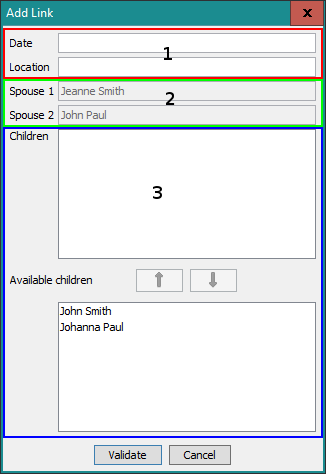
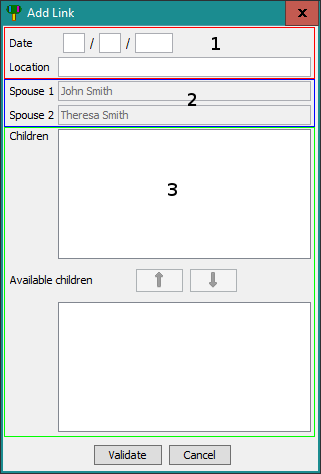
doc: updated

diff --git a/Genealogy/help-doc/en_US/getting_started.links.add.html b/Genealogy/help-doc/en_US/getting_started.links.add.html
@@ -13,7 +13,7 @@
     Now, select the first card (if it is not already) you want to connect, then click the second one.
     You should now be seeing this form:<br>
     <img class="center" src="../images/add_link_dialog-en_US.png"><br>
-    The first two fields (1) are the date and location of the wedding.<br>
+    The first two fields (1) are the date and location of the wedding. The date can be incomplete.<br>
     The two fields below (2) contain the names of the couple.<br>
     Zone (3) lets you add/remove children from the marriage. To add children, select the items from
     the bottom list then click the <img src="../images/arrow_up.png"> button. To remove added children,

diff --git a/Genealogy/help-doc/fr_FR/getting_started.cards.details.html b/Genealogy/help-doc/fr_FR/getting_started.cards.details.html
@@ -17,10 +17,11 @@
       </li>
       <li><img src="../images/cross.png">: la date et le lieu de décès&nbsp;;</li>
       <li>
-        l'âge de al personne. Si la date de décès est inconnue, l'âge est calculé à partir de la
+        l'âge de la personne. Si la date de décès est inconnue, l'âge est calculé à partir de la
         date actuelle&nbsp;; dans le cas contraire, la date de décès est utilisée. Si la date de
         naissance est inconnue, l'âge ne sera pas affiché.
       </li>
+      <li>la zone de commentaire</li>
     </ol>
   </p>
   <p>Prochain sujet&nbsp;: <a href="getting_started.cards.add.html">Ajouter une fiche</a></p>

diff --git a/Genealogy/help-doc/eo/getting_started.links.add.html b/Genealogy/help-doc/eo/getting_started.links.add.html
@@ -13,7 +13,7 @@
     Nun, selektu la unuan karton ke, vi volas konekti (se ne jam estas), post, alklaku la duan.
     Vi vidus tiu fenestro&nbsp;:<br>
     <img class="center" src="../images/add_link_dialog-eo.png"><br>
-    La du unuaj tekstujoj (1) estas la edziĝdato kaj la edziĝejo.<br>
+    La du unuaj tekstujoj (1) estas la edziĝdato kaj la edziĝejo. La dato povas esti nekompleta.<br>
     La sube du tekstujoj (2) enhavas la nomojn de la geedzoj.<br>
     En la zono (3) vi povas aldoni/forigi infanoj. Por aldoni infano, selektu la elementojn en la
     suba listo kaj alklaku la <img src="../images/arrow_up.png"> butonon. Por forigi infano,

diff --git a/Genealogy/help-doc/fr_FR/getting_started.links.add.html b/Genealogy/help-doc/fr_FR/getting_started.links.add.html
@@ -14,7 +14,7 @@
     puis cliquez sur la seconde.
     Vous devriez voir cette fenêtre&nbsp;:<br>
     <img class="center" src="../images/add_link_dialog-fr_FR.png"><br>
-    Les deux premiers champs (1) sont la date et le lieu du mariage.<br>
+    Les deux premiers champs (1) sont la date et le lieu du mariage. La date peut être incomplète.<br>
     Les deux champs en-dessous (2) contiennent les noms du couple.<br>
     La zone (3) vous permet d'ajouter/enlever des enfants issus du mariage. Pour ajouter des enfants,
     sélectionnez les items dans la liste du bas puis cliquez sur le bouton <img src="../images/arrow_up.png">.

diff --git a/Genealogy/help-doc/eo/getting_started.cards.add.html b/Genealogy/help-doc/eo/getting_started.cards.add.html
@@ -11,8 +11,8 @@
       <li>aŭ subtenu <span class="key-stroke">Ctrl+A</span></li>
     </ul>
     Vi vidus fenestron nomitan "Aldoni karto". Estas tie ke vi devas eniri la informojn pri la persono.
-    Vi povas lasi tekstujon vakuan se vi ne havas la informon. Naskiĝo kaj morto tekstujoj devas
-    esti validajn datojn. Vi ankaŭ povas selekti bildo.
+    Vi povas lasi tekstujon vakuan se vi ne havas la informon. Naskiĝo kaj morto tekstujoj povas
+    esti nekompleta. Vi ankaŭ povas selekti bildo.
   </p>
   <p>
     Iam vi finis, alklaku  <span class="button">Validigi</span> por krei la karto. Se vi alklakis

diff --git a/Genealogy/help-doc/fr_FR/getting_started.cards.add.html b/Genealogy/help-doc/fr_FR/getting_started.cards.add.html
@@ -15,7 +15,7 @@
     </ul>
     Vous devriez voir un formulaire dans une fenêtre appelée "Ajouter une fiche". C'est ici que vous
     allez entrer les informations sur la personne. Vous pouvez laisser un champ vide si vous n'avez
-    pas l'information. Les dates de naissance et de décès doivent suivre un format valide. Vous
+    pas l'information. Les dates de naissance et de décès peuvent être incomplètes. Vous
     pouvez aussi choisir une image.
   </p>
   <p>

diff --git a/Genealogy/help-doc/en_US/getting_started.cards.add.html b/Genealogy/help-doc/en_US/getting_started.cards.add.html
@@ -12,7 +12,7 @@
     </ul>
     You should be seeing a form dialog named "Add Card". This is where you have to enter information
     about the person. You can leave a field empty if you don't have the information. Birth and Death
-    fields must be valid dates. You can also select an image.
+    fields can be incomplete. You can also select an image.
   </p>
   <p>
     Once you are finished, click <span class="button">Validate</span> to create the card. If you

diff --git a/Genealogy/help-doc/eo/getting_started.cards.details.html b/Genealogy/help-doc/eo/getting_started.cards.details.html
@@ -21,6 +21,7 @@
         el la nuna dato&nbsp;; alie la dato de morto estas uzita anstataŭ. Se la naskiĝdato
         estas nekonata, la aĝo ne aperigas
       </li>
+      <li>la komenta zono</li>
     </ol>
   </p>
   <p>Sekva temo&nbsp;: <a href="getting_started.cards.add.html">Aldoni karto</a></p>

diff --git a/Genealogy/help-doc/en_US/getting_started.cards.details.html b/Genealogy/help-doc/en_US/getting_started.cards.details.html
@@ -18,6 +18,7 @@
         date; otherwise the death date will be used instead. If the birth date is not known, no age
         will be displayed
       </li>
+      <li>the comment zone</li>
     </ol>
   </p>
   <p>Next topic: <a href="getting_started.cards.add.html">Adding cards</a></p>
